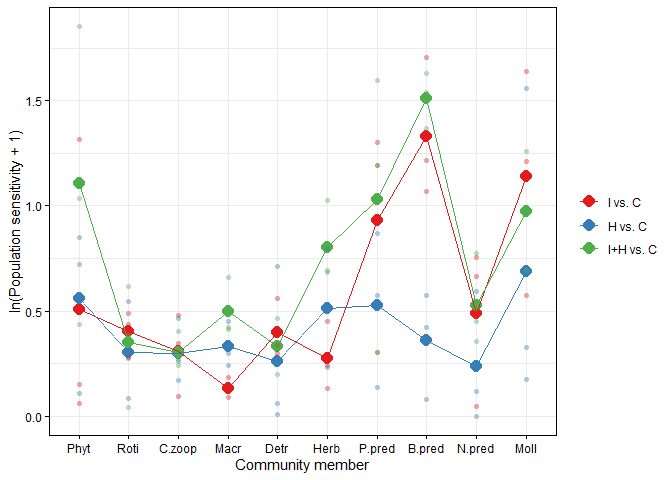
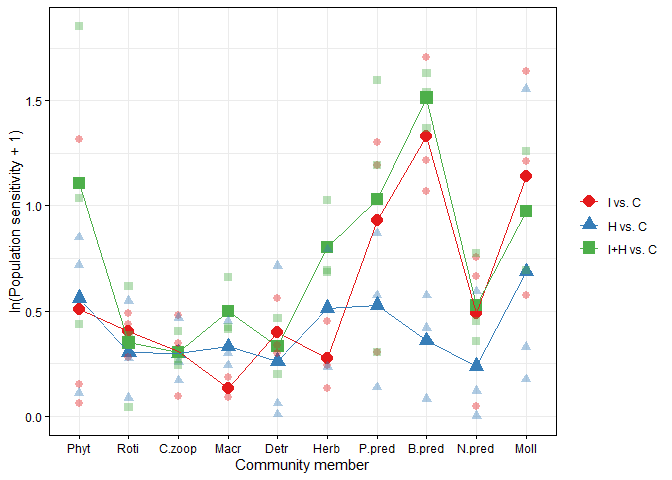
change symbols of Fig. 2B

diff --git a/3_Calculation_of_population_sensitivity.md b/3_Calculation_of_population_sensitivity.md
@@ -20,11 +20,19 @@ sessionInfo() #save session information (R version 3.6.3 (2020))
     ## attached base packages:
     ## [1] stats     graphics  grDevices utils     datasets  methods   base     
     ## 
+    ## other attached packages:
+    ## [1] rmarkdown_2.5      ggsci_2.9          patchwork_1.1.1    tidyr_1.1.2       
+    ## [5] dplyr_1.0.2        ggplot2_3.3.2      RColorBrewer_1.1-2
+    ## 
     ## loaded via a namespace (and not attached):
-    ##  [1] compiler_3.6.3  magrittr_2.0.3  fastmap_1.1.0   cli_3.4.1      
-    ##  [5] tools_3.6.3     htmltools_0.5.2 rstudioapi_0.11 yaml_2.2.1     
-    ##  [9] stringi_1.4.6   rmarkdown_2.5   knitr_1.30      stringr_1.4.0  
-    ## [13] xfun_0.19       digest_0.6.27   rlang_1.1.0     evaluate_0.14
+    ##  [1] pillar_1.4.6     compiler_3.6.3   tools_3.6.3      digest_0.6.27    evaluate_0.14   
+    ##  [6] lifecycle_1.0.3  tibble_3.0.4     gtable_0.3.0     pkgconfig_2.0.3  rlang_1.1.0     
+    ## [11] cli_3.4.1        rstudioapi_0.11  yaml_2.2.1       xfun_0.19        fastmap_1.1.0   
+    ## [16] stringr_1.4.0    withr_2.5.0      knitr_1.30       generics_0.1.0   vctrs_0.6.1     
+    ## [21] grid_3.6.3       tidyselect_1.1.0 glue_1.4.2       R6_2.5.0         fansi_1.0.3     
+    ## [26] farver_2.0.3     purrr_0.3.4      magrittr_2.0.3   scales_1.1.1     ellipsis_0.3.2  
+    ## [31] htmltools_0.5.2  colorspace_2.0-3 labeling_0.4.2   utf8_1.1.4       stringi_1.4.6   
+    ## [36] munsell_0.5.0    crayon_1.3.4
 
 ``` r
 library(ggplot2); packageVersion("ggplot2") #3.3.2
@@ -35,17 +43,6 @@ library(ggplot2); packageVersion("ggplot2") #3.3.2
 ``` r
 library(dplyr); packageVersion("dplyr") #1.0.2
 ```
-
-    ## 
-    ## Attaching package: 'dplyr'
-
-    ## The following objects are masked from 'package:stats':
-    ## 
-    ##     filter, lag
-
-    ## The following objects are masked from 'package:base':
-    ## 
-    ##     intersect, setdiff, setequal, union
 
     ## [1] '1.0.2'
 
@@ -101,8 +98,8 @@ all_Ts_smrz <-
   summarise(Abundance_m=mean(Abundance, na.rm=TRUE)) #mean raw density
 ```
 
-    ## `summarise()` regrouping output by 'Treatment', 'Recipient' (override with
-    ## `.groups` argument)
+    ## `summarise()` regrouping output by 'Treatment', 'Recipient' (override with `.groups`
+    ## argument)
 
 ``` r
 ## Show data sheet
@@ -149,14 +146,14 @@ head(Abundance_TrEff)
 ```
 
     ## # A tibble: 6 x 5
-    ##   Recipient Year  Treatment_Cont Abundance_response_nR~ abs_Abundance_response_~
-    ##   <fct>     <chr> <fct>                           <dbl>                    <dbl>
-    ## 1 Phytopla1 2017  Fipro_Cont                     0.162                    0.162 
-    ## 2 Phytopla1 2018  Fipro_Cont                     0.0631                   0.0631
-    ## 3 Phytopla1 2019  Fipro_Cont                     2.72                     2.72  
-    ## 4 Roti1     2017  Fipro_Cont                     0.320                    0.320 
-    ## 5 Roti1     2018  Fipro_Cont                    -0.547                    0.547 
-    ## 6 Roti1     2019  Fipro_Cont                    -0.631                    0.631
+    ##   Recipient Year  Treatment_Cont Abundance_response_nRR_0.1 abs_Abundance_response_nRR_0.1
+    ##   <fct>     <chr> <fct>                               <dbl>                          <dbl>
+    ## 1 Phytopla1 2017  Fipro_Cont                         0.162                          0.162 
+    ## 2 Phytopla1 2018  Fipro_Cont                         0.0631                         0.0631
+    ## 3 Phytopla1 2019  Fipro_Cont                         2.72                           2.72  
+    ## 4 Roti1     2017  Fipro_Cont                         0.320                          0.320 
+    ## 5 Roti1     2018  Fipro_Cont                        -0.547                          0.547 
+    ## 6 Roti1     2019  Fipro_Cont                        -0.631                          0.631
 
 ``` r
 # Visualize sensitivity
@@ -168,8 +165,7 @@ smrz_Abundance_TrEff <-
   ungroup(.)
 ```
 
-    ## `summarise()` regrouping output by 'Recipient' (override with `.groups`
-    ## argument)
+    ## `summarise()` regrouping output by 'Recipient' (override with `.groups` argument)
 
 ``` r
 ## Split by treatments
@@ -189,12 +185,18 @@ reaction.norm <-
   smrz_Abundance_TrEff %>%
   #  mutate(Treatment_Cont=factor(Treatment_Cont, levels=c("Fipro_Cont", "Joint_Cont", "Pent_Cont"))) %>%
   ggplot(aes(x=Recipient, y=log(abs_Abundance_response_nRR_0.1+1))) +
-  geom_point(aes(group=Treatment_Cont, color=Treatment_Cont), size=4, shape=16) +
+  geom_point(aes(group=Treatment_Cont, color=Treatment_Cont, shape=Treatment_Cont), size=4) +
   geom_line(aes(group=Treatment_Cont, color=Treatment_Cont)) +
-  geom_point(Abundance_TrEff, mapping=aes(x=Recipient, y=log(abs_Abundance_response_nRR_0.1+1), group=Treatment_Cont, color=Treatment_Cont), alpha=0.4, shape=16) +
+  geom_point(Abundance_TrEff, 
+             mapping=aes(x=Recipient, y=log(abs_Abundance_response_nRR_0.1+1), 
+                         group=Treatment_Cont, 
+                         color=Treatment_Cont, 
+                         shape=Treatment_Cont), 
+             alpha=0.4, size=2.5) +
   scale_color_manual(values=palSet1[c(1, 2, 3)], labels=c("I vs. C", "H vs. C", "I+H vs. C")) + 
+  scale_shape_manual(values=c(16, 17, 15), labels=c("I vs. C", "H vs. C", "I+H vs. C")) + 
   scale_x_discrete(name="Community member", labels=c("Phyt", "Roti", "C.zoop", "Macr", "Detr", "Herb", "P.pred", "B.pred", "N.pred", "Moll")) + 
-  guides(color=guide_legend(title=NULL)) +
+  guides(color=guide_legend(title=NULL), shape=guide_legend(title=NULL)) +
   ylab("ln(Population sensitivity + 1)") + 
   theme_custom()
 
